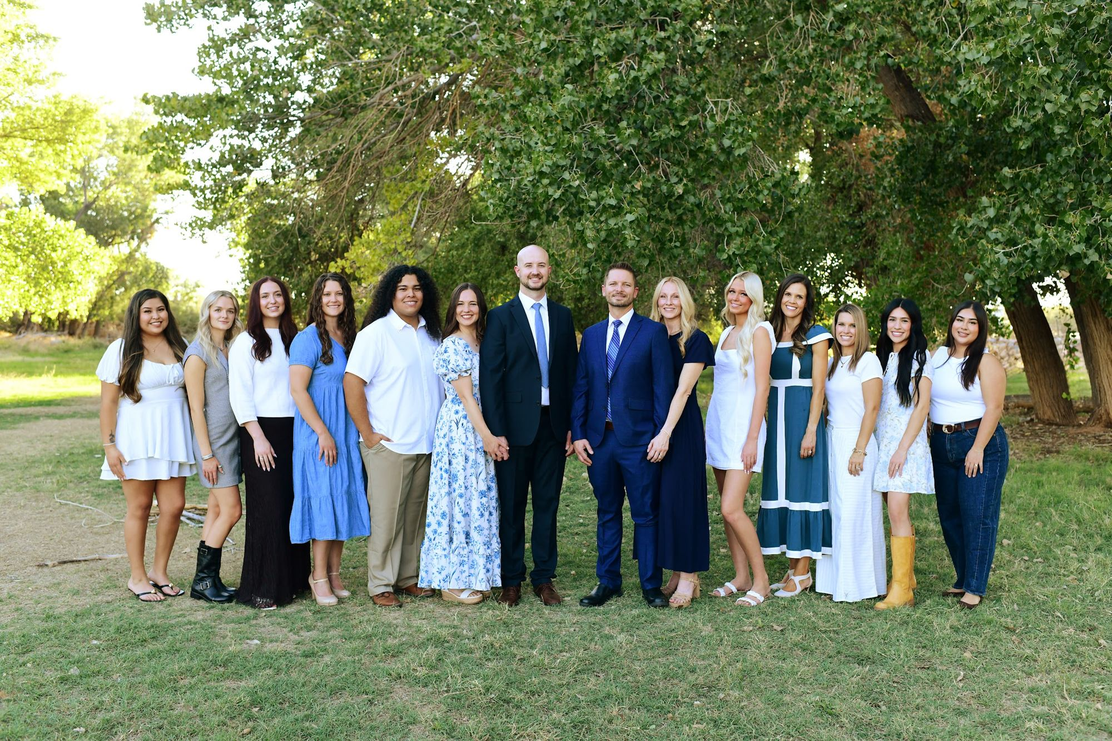
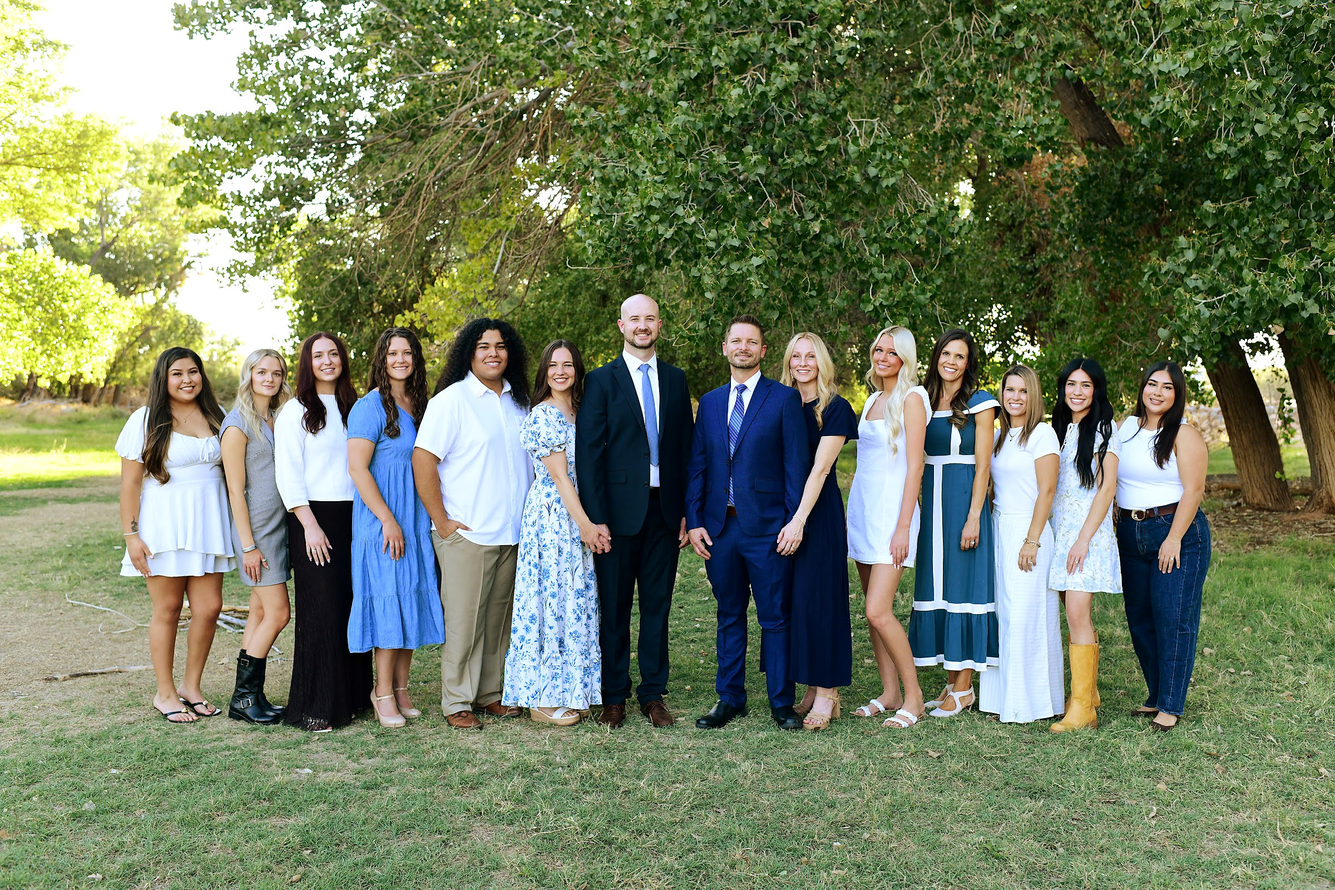
Higher resolution team photos

diff --git a/about-us/index.html b/about-us/index.html
@@ -34,7 +34,7 @@
 <div><h3>Dr. Brett Davis, DMD</h3><p class="doc__role">Dentist and Owner</p><p>Dr. Brett Davis completed his Bachelor’s Degree in Biology from Brigham Young University in Idaho and earned his DMD degree from the University of Nevada, Las Vegas School of Dental Medicine. Dr. Davis is a member of the American Dental Association and volunteer experiences include Huntridge Teen Clinic, Give Kids A Smile, Sergeant Clint Ferrin Dental Clinic, Boy Scout leader, and Boy Scout committee chairman. He also provided international humanitarian dental work in Ecuador.</p> <p>Dr. Davis and his wife love spending time with their 3 kids. Most of their free time is centered on physical and outdoor activities, including everything from camping, swimming, and bungee jumping in the summer to skiing in the winter.</p></div></article>
 <article class="doc doc--flip"><img src="/images/team/dr-john-demille.jpg" alt="Dr. John DeMille, dentist at Virgin River Dental" width="800" height="1000" loading="lazy">
 <div><h3>Dr. John DeMille, DDS</h3><p class="doc__role">Dentist</p><p>Originally from Cedar City, Utah, Dr. DeMille graduated Summa Cum Laude from Southern Utah University before earning his dental degree from The Ohio State University. He then completed a General Practice Residency at the University of Utah Hospital, where he received advanced training in endodontics, sedation, oral surgery, prosthodontics, and implantology.</p><p>Outside of dentistry, Dr. DeMille enjoys spending time with his wife and three children, exploring the outdoors, riding single-track trails on his dirt bike, and fishing. He also has a passion for hands-on and creative pursuits, including auto mechanics, construction, and 3D printing.</p></div></article>
-</div></section><section class="teamhero"><div class="wrap"><img src="/images/team/virgin-river-dental-team-wide.jpg" alt="The full Virgin River Dental team" width="2000" height="1333" loading="lazy"></div></section><section class="team"><div class="wrap"><div class="sec-head"><p class="eyebrow">Our team</p><h2>The friendly faces you will see</h2></div><div class="team__grid"><article class="tm"><div class="tm__ph" aria-hidden="true">K</div><div class="tm__txt"><h3>Kirsti</h3><p class="tm__role">Professional Relations Coordinator</p><p>Kirsti is our Professional Relations Coordinator, and she handles our marketing and social media. She enjoys decorating the office for the holidays. Her favorite season is Fall, so stop by the office to see all the amazing Halloween decorations. She received a bachelor degree in Health Science with an emphasis in Health Promotion and Lifetime Wellness. She loves working in the dental field and understands the importance of good oral health as an essential part of staying healthy. When she is not in the office she is spending time with her beautiful family or teaching pilates and fitness classes. </p></div></article><article class="tm"><img src="/images/team/caitlin.jpg" alt="Caitlin, Hygienist, Virgin River Dental" width="600" height="750" loading="lazy"><div class="tm__txt"><h3>Caitlin</h3><p class="tm__role">Hygienist</p><p>Caitlin grew up in Salt Lake City and has been in St. George since 2006. She has been a Registered Dental Hygienist since 2012 and graduated from Dixie State University. She and her husband, Cade, have 4 children; 3 boys and 1 girl. When Caitlin isn’t at work, she keeps busy with her kids. Her favorite things are playing Pickleball with her husband and going to the movies!</p></div></article><article class="tm"><img src="/images/team/catania.jpg" alt="Catania, Dental Hygienist, Virgin River Dental" width="600" height="750" loading="lazy"><div class="tm__txt"><h3>Catania</h3><p class="tm__role">Dental Hygienist</p><p>Hi, I’m Catania and I’m a dental hygienist at Virgin River Dental and a proud graduate of Dixie State University. My husband and I have been married since 2020 and we have a beautiful baby girl. We love spending time outdoors—whether it’s rock climbing, hiking, dirt biking, or boating. My husband works as a general contractor and funeral director, and together, we enjoy making the most of life’s adventures. I’m passionate about helping people achieve their best smile and love being part of a team that prioritizes excellent dental care in St. George!</p></div></article><article class="tm"><div class="tm__ph" aria-hidden="true">B</div><div class="tm__txt"><h3>Brylee</h3><p class="tm__role">Dental Hygienist</p><p>Brylee is a skilled dental hygienist at Virgin River Dental, where she combines her passion for oral health with over 8 years of patient care. When she’s not helping patients achieve their best smiles, you’ll likely find her being active outdoors, reading a good book, exercising and spending time with family and friends. With a friendly and gentle approach, Brylee makes sure her patients feel comfortable while also sharing her knowledge of oral health.</p></div></article><article class="tm"><div class="tm__ph" aria-hidden="true">T</div><div class="tm__txt"><h3>Tom</h3><p class="tm__role">Hygienist</p><p>Coming Soon</p></div></article><article class="tm"><img src="/images/team/lupita.jpg" alt="Lupita, Scheduling Coordinator, Virgin River Dental" width="600" height="750" loading="lazy"><div class="tm__txt"><h3>Lupita</h3><p class="tm__role">Scheduling Coordinator</p><p>Lupita is originally from California but was raised in St. George, Utah. She has a 6 year old son named Sebastian! In their free time they like to play soccer and go camping! She has been in the dental field on and off since 2019. Her favorite part of being a scheduling coordinator is being the first person to welcome patients into the office.</p></div></article><article class="tm"><img src="/images/team/tianna.jpg" alt="Tianna, Treatment Coordinator, Virgin River Dental" width="600" height="750" loading="lazy"><div class="tm__txt"><h3>Tianna</h3><p class="tm__role">Treatment Coordinator</p><p>Tianna is a proud mom to two beautiful babies and shares her life with her wonderful husband. Tianna is originally from Northern Utah, but moved to Southern Utah to embrace her family’s love for off-roading and the great outdoors. When she’s not helping patients navigate their treatment plans, you’ll likely find her exploring scenic trails or spending quality time with her family.</p></div></article><article class="tm"><img src="/images/team/kate.jpg" alt="Kate, Assistant, Virgin River Dental" width="600" height="750" loading="lazy"><div class="tm__txt"><h3>Kate</h3><p class="tm__role">Assistant</p><p>Kate grew up in South Jordan, Utah, and moved down to St. George shortly after graduating high school. She has been a dental assistant for a year and a half and loves working in the dental field. Outside of work, she loves being at the lake, swimming and surfing. She also enjoys skiing in the winter.</p></div></article><article class="tm"><div class="tm__ph" aria-hidden="true">S</div><div class="tm__txt"><h3>Susan</h3><p class="tm__role">Assistant</p><p>Bio coming soon</p></div></article><article class="tm"><img src="/images/team/jack.jpg" alt="Jack, Assistant, Virgin River Dental" width="600" height="750" loading="lazy"><div class="tm__txt"><h3>Jack</h3><p class="tm__role">Assistant</p><p>Jack has nearly 5 years of experience in the dental field and is originally St. George, Utah, graduating from Snow Canyon High School. He is studying at Utah Tech University before he applies to dental school.</p></div></article><article class="tm"><img src="/images/team/kaesha.jpg" alt="Kaesha, Virgin River Dental" width="600" height="750" loading="lazy"><div class="tm__txt"><h3>Kaesha</h3><p>Bio coming soon.</p></div></article><article class="tm"><img src="/images/team/addison.jpg" alt="Addison, Virgin River Dental" width="600" height="750" loading="lazy"><div class="tm__txt"><h3>Addison</h3><p>Bio coming soon.</p></div></article><article class="tm"><img src="/images/team/laurie.jpg" alt="Laurie, Virgin River Dental" width="600" height="750" loading="lazy"><div class="tm__txt"><h3>Laurie</h3><p>Bio coming soon.</p></div></article><article class="tm"><img src="/images/team/natalie.jpg" alt="Natalie, Virgin River Dental" width="600" height="750" loading="lazy"><div class="tm__txt"><h3>Natalie</h3><p>Bio coming soon.</p></div></article></div></div></section><section class="offer"><div class="wrap offer__in">
+</div></section><section class="teamhero"><div class="wrap"><img src="/images/team/virgin-river-dental-team-wide.jpg" alt="The full Virgin River Dental team" width="2400" height="1600" loading="lazy"></div></section><section class="team"><div class="wrap"><div class="sec-head"><p class="eyebrow">Our team</p><h2>The friendly faces you will see</h2></div><div class="team__grid"><article class="tm"><div class="tm__ph" aria-hidden="true">K</div><div class="tm__txt"><h3>Kirsti</h3><p class="tm__role">Professional Relations Coordinator</p><p>Kirsti is our Professional Relations Coordinator, and she handles our marketing and social media. She enjoys decorating the office for the holidays. Her favorite season is Fall, so stop by the office to see all the amazing Halloween decorations. She received a bachelor degree in Health Science with an emphasis in Health Promotion and Lifetime Wellness. She loves working in the dental field and understands the importance of good oral health as an essential part of staying healthy. When she is not in the office she is spending time with her beautiful family or teaching pilates and fitness classes. </p></div></article><article class="tm"><img src="/images/team/caitlin.jpg" alt="Caitlin, Hygienist, Virgin River Dental" width="600" height="750" loading="lazy"><div class="tm__txt"><h3>Caitlin</h3><p class="tm__role">Hygienist</p><p>Caitlin grew up in Salt Lake City and has been in St. George since 2006. She has been a Registered Dental Hygienist since 2012 and graduated from Dixie State University. She and her husband, Cade, have 4 children; 3 boys and 1 girl. When Caitlin isn’t at work, she keeps busy with her kids. Her favorite things are playing Pickleball with her husband and going to the movies!</p></div></article><article class="tm"><img src="/images/team/catania.jpg" alt="Catania, Dental Hygienist, Virgin River Dental" width="600" height="750" loading="lazy"><div class="tm__txt"><h3>Catania</h3><p class="tm__role">Dental Hygienist</p><p>Hi, I’m Catania and I’m a dental hygienist at Virgin River Dental and a proud graduate of Dixie State University. My husband and I have been married since 2020 and we have a beautiful baby girl. We love spending time outdoors—whether it’s rock climbing, hiking, dirt biking, or boating. My husband works as a general contractor and funeral director, and together, we enjoy making the most of life’s adventures. I’m passionate about helping people achieve their best smile and love being part of a team that prioritizes excellent dental care in St. George!</p></div></article><article class="tm"><div class="tm__ph" aria-hidden="true">B</div><div class="tm__txt"><h3>Brylee</h3><p class="tm__role">Dental Hygienist</p><p>Brylee is a skilled dental hygienist at Virgin River Dental, where she combines her passion for oral health with over 8 years of patient care. When she’s not helping patients achieve their best smiles, you’ll likely find her being active outdoors, reading a good book, exercising and spending time with family and friends. With a friendly and gentle approach, Brylee makes sure her patients feel comfortable while also sharing her knowledge of oral health.</p></div></article><article class="tm"><div class="tm__ph" aria-hidden="true">T</div><div class="tm__txt"><h3>Tom</h3><p class="tm__role">Hygienist</p><p>Coming Soon</p></div></article><article class="tm"><img src="/images/team/lupita.jpg" alt="Lupita, Scheduling Coordinator, Virgin River Dental" width="600" height="750" loading="lazy"><div class="tm__txt"><h3>Lupita</h3><p class="tm__role">Scheduling Coordinator</p><p>Lupita is originally from California but was raised in St. George, Utah. She has a 6 year old son named Sebastian! In their free time they like to play soccer and go camping! She has been in the dental field on and off since 2019. Her favorite part of being a scheduling coordinator is being the first person to welcome patients into the office.</p></div></article><article class="tm"><img src="/images/team/tianna.jpg" alt="Tianna, Treatment Coordinator, Virgin River Dental" width="600" height="750" loading="lazy"><div class="tm__txt"><h3>Tianna</h3><p class="tm__role">Treatment Coordinator</p><p>Tianna is a proud mom to two beautiful babies and shares her life with her wonderful husband. Tianna is originally from Northern Utah, but moved to Southern Utah to embrace her family’s love for off-roading and the great outdoors. When she’s not helping patients navigate their treatment plans, you’ll likely find her exploring scenic trails or spending quality time with her family.</p></div></article><article class="tm"><img src="/images/team/kate.jpg" alt="Kate, Assistant, Virgin River Dental" width="600" height="750" loading="lazy"><div class="tm__txt"><h3>Kate</h3><p class="tm__role">Assistant</p><p>Kate grew up in South Jordan, Utah, and moved down to St. George shortly after graduating high school. She has been a dental assistant for a year and a half and loves working in the dental field. Outside of work, she loves being at the lake, swimming and surfing. She also enjoys skiing in the winter.</p></div></article><article class="tm"><div class="tm__ph" aria-hidden="true">S</div><div class="tm__txt"><h3>Susan</h3><p class="tm__role">Assistant</p><p>Bio coming soon</p></div></article><article class="tm"><img src="/images/team/jack.jpg" alt="Jack, Assistant, Virgin River Dental" width="600" height="750" loading="lazy"><div class="tm__txt"><h3>Jack</h3><p class="tm__role">Assistant</p><p>Jack has nearly 5 years of experience in the dental field and is originally St. George, Utah, graduating from Snow Canyon High School. He is studying at Utah Tech University before he applies to dental school.</p></div></article><article class="tm"><img src="/images/team/kaesha.jpg" alt="Kaesha, Virgin River Dental" width="600" height="750" loading="lazy"><div class="tm__txt"><h3>Kaesha</h3><p>Bio coming soon.</p></div></article><article class="tm"><img src="/images/team/addison.jpg" alt="Addison, Virgin River Dental" width="600" height="750" loading="lazy"><div class="tm__txt"><h3>Addison</h3><p>Bio coming soon.</p></div></article><article class="tm"><img src="/images/team/laurie.jpg" alt="Laurie, Virgin River Dental" width="600" height="750" loading="lazy"><div class="tm__txt"><h3>Laurie</h3><p>Bio coming soon.</p></div></article><article class="tm"><img src="/images/team/natalie.jpg" alt="Natalie, Virgin River Dental" width="600" height="750" loading="lazy"><div class="tm__txt"><h3>Natalie</h3><p>Bio coming soon.</p></div></article></div></div></section><section class="offer"><div class="wrap offer__in">
 <div class="offer__price"><span class="offer__big">$99</span><span class="offer__was">$399 value</span></div>
 <div class="offer__txt"><p class="eyebrow eyebrow--light">New patient special</p><h2>New patient exam, cleaning &amp; X-rays, plus free teeth whitening</h2>
 <p>A full exam, cleaning and digital X-rays for $99 (a $399 value), plus free whitening. Book online or call to claim it.</p></div>

diff --git a/index.html b/index.html
@@ -25,7 +25,7 @@
 <button class="burger" aria-expanded="false" aria-controls="mnav" aria-label="Open menu"><svg viewBox="0 0 24 24" fill="none" stroke="currentColor" stroke-width="2.4" stroke-linecap="round" aria-hidden="true"><path d="M4 7h16M4 12h16M4 17h16"/></svg></button>
 </div><div class="mnav" id="mnav"><a href="/new-patients/">New Patients</a><a href="/membership-plan/">Smile Saver Membership</a><a href="/about-us/">Our Team</a><a href="/reviews/">Reviews</a><a href="/contact/">Contact</a><p class="mnav__h">Cosmetic</p><a href="/cosmetic-dentistry/" class="mnav__sub">Cosmetic Dentistry</a><a href="/cosmetic-dentistry/teeth-whitening/" class="mnav__sub">Teeth Whitening</a><a href="/cosmetic-dentistry/veneers/" class="mnav__sub">Veneers</a><a href="/dental-bonding/" class="mnav__sub">Dental Bonding</a><a href="/orthodontics/invisalign/" class="mnav__sub">Invisalign</a><a href="/orthodontics/" class="mnav__sub">Orthodontics</a><p class="mnav__h">Restorative</p><a href="/dental-implants/" class="mnav__sub">Dental Implants</a><a href="/dental-implants/all-on-4/" class="mnav__sub">All-on-4 Implants</a><a href="/dentures/" class="mnav__sub">Dentures</a><a href="/cosmetic-dentistry/dental-crowns/" class="mnav__sub">Dental Crowns</a><a href="/cosmetic-dentistry/dental-bridges/" class="mnav__sub">Dental Bridges</a><a href="/root-canal-treatment/" class="mnav__sub">Root Canal Treatment</a><p class="mnav__h">General</p><a href="/exam-and-cleanings/" class="mnav__sub">Exams &amp; Cleanings</a><a href="/dental-fillings/" class="mnav__sub">Dental Fillings</a><a href="/oral-cancer-screenings/" class="mnav__sub">Oral Cancer Screenings</a><a href="/emergency-dentistry/" class="mnav__sub">Emergency Dentistry</a><a href="/our-services/" class="mnav__sub">All Services</a><a class="btn" href="/book-an-appointment/">Book Now</a></div></header>
 <main id="main">
-<section class="hero"><div class="hero__media"><img src="/images/team/virgin-river-dental-team.jpg" alt="The Virgin River Dental team in St. George, Utah" width="2000" height="1333" fetchpriority="high">
+<section class="hero"><div class="hero__media"><img src="/images/team/virgin-river-dental-team.jpg" alt="The Virgin River Dental team in St. George, Utah" width="2400" height="1600" fetchpriority="high">
 <div class="hero__strip"><div class="wrap hero__strip-in"><p>Your neighborhood dentist at Dinosaur Crossing</p><img class="hero__badge" src="/images/awards/best-of-southern-utah-2021-2026.png" alt="Voted Best of Southern Utah six years in a row, 2021 to 2026" width="595" height="166"></div></div></div>
 <div class="hero__band"><div class="wrap hero__band-in"><div>
 <h1>Trusted Dentistry in St. George, Utah</h1>
